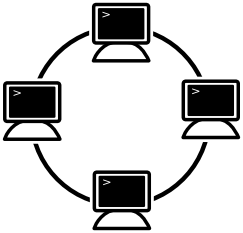
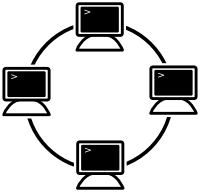
* Updated documents.

diff --git a/doc/round_overview.md b/doc/round_overview.md
@@ -65,11 +65,22 @@ In Round, there are the following features to develop distributed frameworks and
 
 ### Zeroconf
 
-After new node is started, the node is added into a network automatically. Other nodes in the same network are received event messages when a node is added or removed.
+In typical cloud systems, users have to set some configuration to start distributed services. Round is designed based on Zeroconf not to set any configurations by users.
+
+For example, a node is added into a cluster of Round automatically after the new node is started without configuration. Other nodes in the same network are received event messages when a node is added or removed.
 
 ![auto-configuration](img/round_overview_autoconfig.png)
 
-In addition to the auto configuration, Round supports none auto configuration network and static configurations too.
+Zeroconf is a tecnology to find services without user configuration. In Round, all new nodes are added into a cluster without special configuration and the nodes are available automatically.
+
+### Decentralized
+
+Basically, Round is a decentralized distributed system framework,
+every nodes in a cluster has equal roll, the cluster has no master node.
+
+![round_overview_zeroconf](img/round_overview_decentralized.png)
+
+In addition, Round has a function which elects a leader node to build centric distributed frameworks and applications automatically.
 
 ### Autonomous
 

diff --git a/doc/round_features.md b/doc/round_features.md
@@ -26,23 +26,6 @@ Round ...
 
 Asymmetric network topology is not always efficient ...
 
-## Zeroconf
-
-In typical cloud systems, users have to set some configuration to start distributed services. Round is designed not to set configurations by users using Zeroconf.
-
-Zeroconf is a tecnology to find services without user configuration.　In Round, all new nodes are added into a cluster without special configuration and the nodes are available automatically.
-
-![round_overview_zeroconf](img/round_overview_zeroconf.png)
-
-## Decentralized
-
-Round is a decentralized and distributed system,
-every nodes in a cluster has equal roll, the cluster has no master node.
-
-In typical distributed systems such as consensus services are centric which has a master node. However, Round has no master node.
-
-![round_overview_zeroconf](img/round_overview_decentralized.png)
-
 ## Autonomous
 
 Programming model of existing consensus services, like [Chubby \[1\]][1] and [Zookeeper \[4\]][4], has a simple shared key value store and notifies some provided network events. The programming codes which handles the provided events are separated the consensus services.
